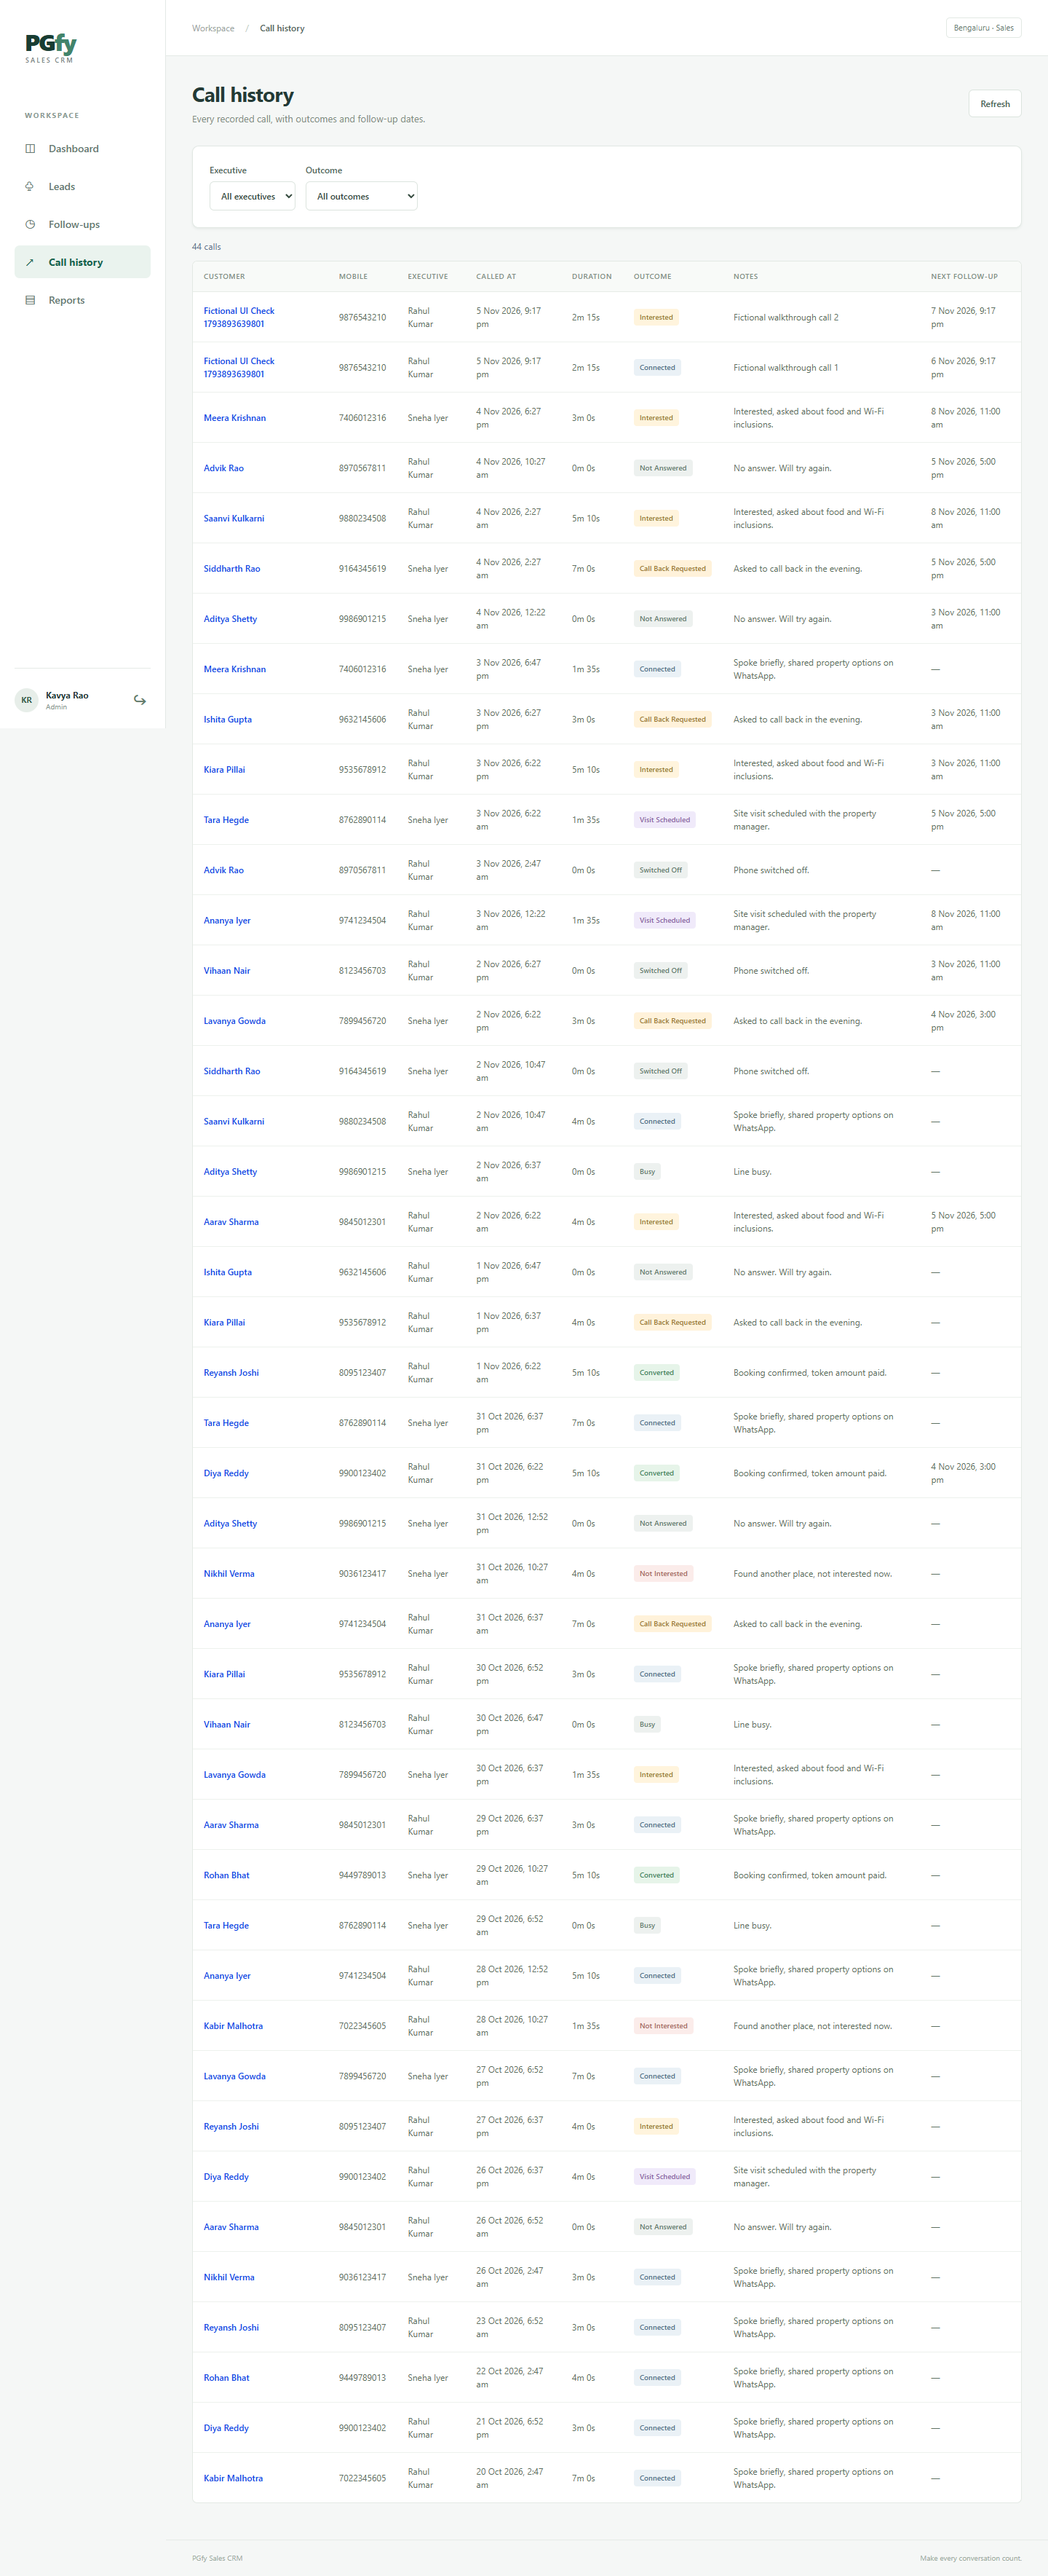
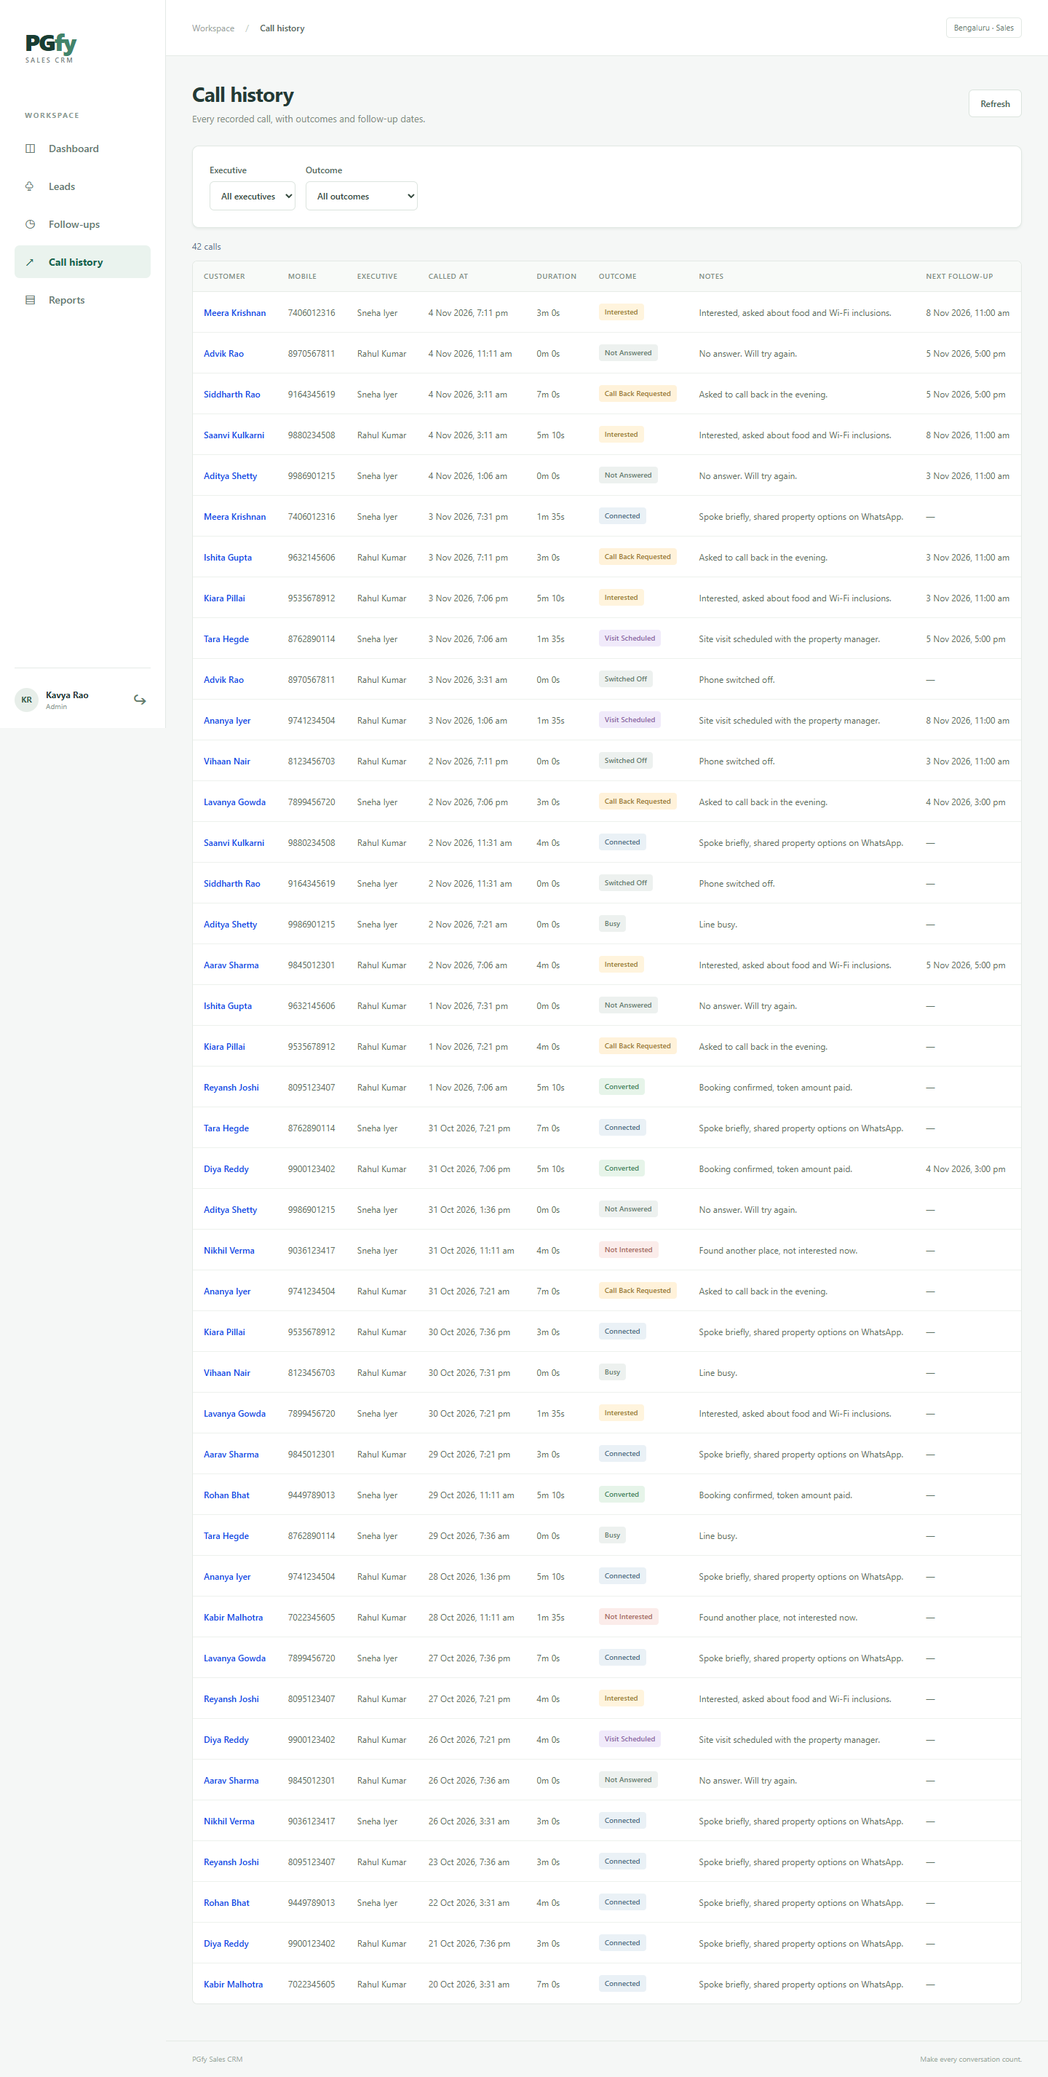
docs: retake screenshots after content loads
Screenshot script now waits for lead detail content instead of network idle and opens leads with call history. Screenshots retaken on freshly seeded demo data.

diff --git a/ai-logs/day-2.md b/ai-logs/day-2.md
@@ -15,3 +15,13 @@ Day-2-scope items, and where they are logged in `day-1.md`:
 | README and AI logs | Documentation entries |
 
 Any finalisation done after the sprint will be added below with its real date and time.
+
+---
+
+### Finalisation: screenshot fix (2026-11-05, after the sprint)
+- **Tool:** Claude Code (took over this task from Codex at the developer's request)
+- **Task/prompt:** "Do that task instead of Codex": `sales-lead-detail.png` had been captured while the page was still showing "Loading…".
+- **Output used:** `client/verification/screenshots.mjs`. The script now waits for the "Customer information" and "Call history" headings before capturing, and opens a seeded lead that has calls (Aarav Sharma for sales, Diya Reddy for admin). All 15 screenshots in `docs/screenshots/` were retaken.
+- **Developer changes:** reseeded the demo DB first (`npm run db:seed`), so the screenshots show clean seed data with no walkthrough test leads.
+- **Verification:** the script ran with playwright-core + local Chrome: "Browser screenshots finished; no uncaught page errors." Inspected `sales-lead-detail.png` (3 calls, 1 pending follow-up) and `admin-dashboard.png` (24 leads, 42 calls, 85.0% / 15.0% / 73.8%, which matches the seed and the backend tests).
+- **Result:** passed
